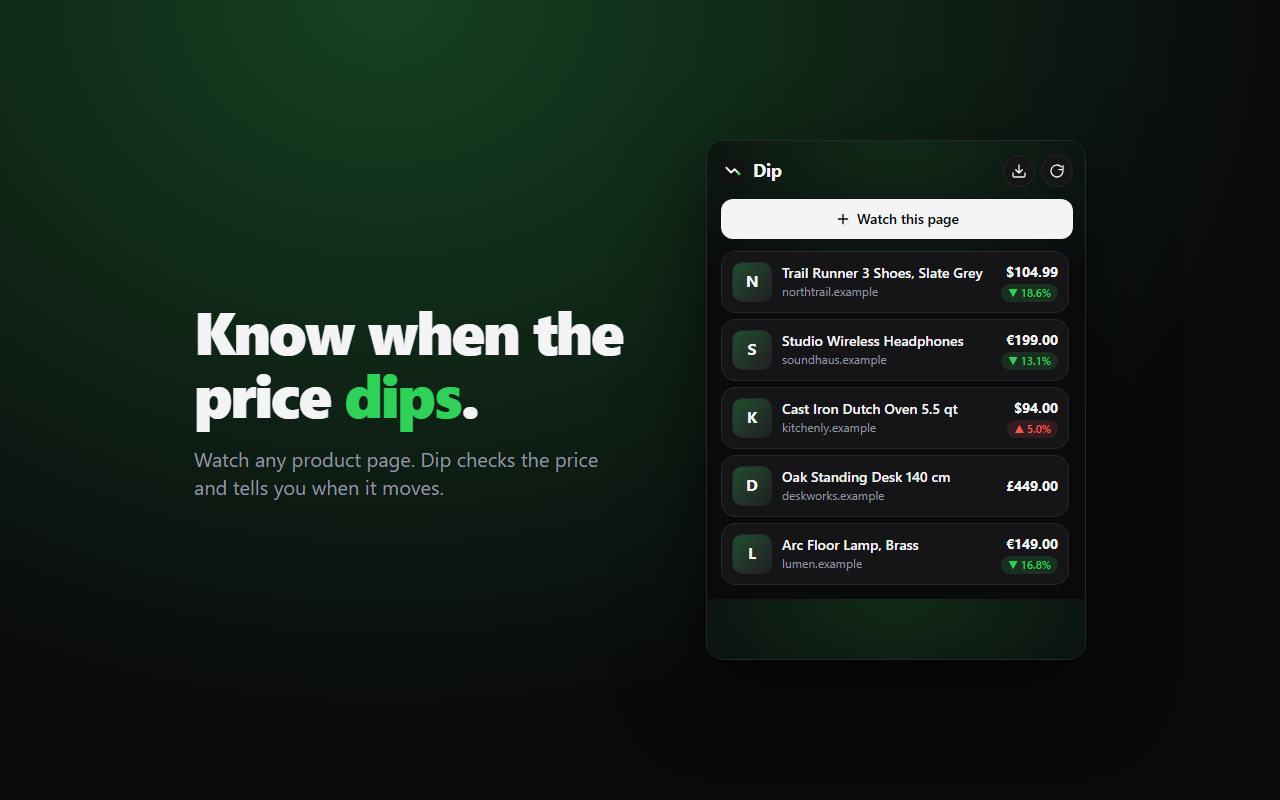
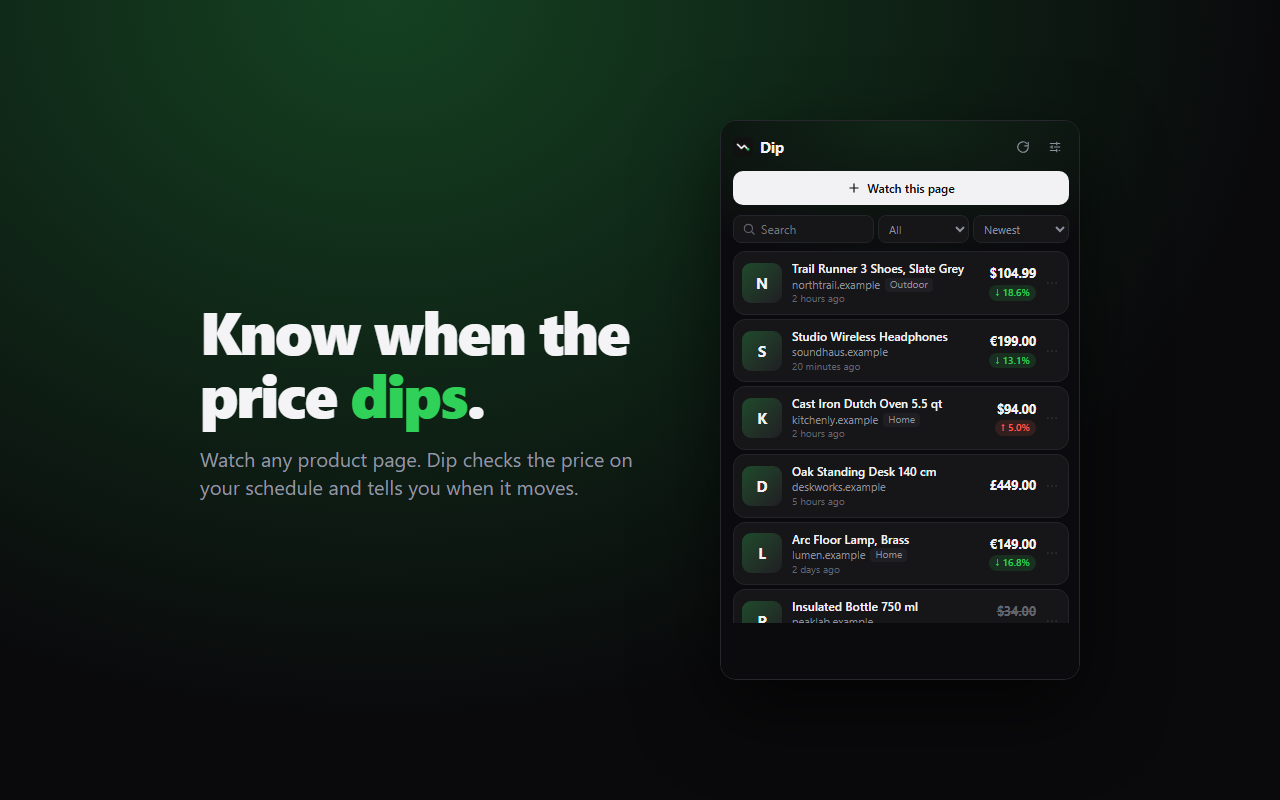
0.3.0, docs and store screenshot

diff --git a/README.md b/README.md
@@ -34,7 +34,11 @@ work. See [Web app or extension?](#web-app-or-extension)
 - The extension offers to watch a product when you open its page on a
   supported shop
 - The same product is never added twice, even from a differently copied link
-- Product pictures, lowest/highest price and a summary of what got cheaper
+- Product pictures (or the shop's logo), lowest/highest price and a summary
+  of what got cheaper
+- Checks on your schedule: every N minutes, hours, days, weeks or months
+- Spots products that are unavailable or no longer listed
+- Search, filter, sort, and group products into your own lists
 - No per-shop scrapers to maintain: prices are read from the structured data
   shops publish, or from the page itself when there is none
 - Export and import your list as a plain JSON file
@@ -49,7 +53,7 @@ work. See [Web app or extension?](#web-app-or-extension)
  │ list + history in │                │ list + history in     │
  │ localStorage      │                │ chrome.storage.local  │
  └─────────┬─────────┘                └───────────┬───────────┘
-           │ /api/price?url=…                     │ fetch, hourly
+           │ /api/price?url=…                     │ fetch, on your schedule
  ┌─────────▼─────────┐                            │
  │ stateless lookup  │                            │
  │ (stores nothing)  │                            │
@@ -62,7 +66,25 @@ Both read the price from the page, trying in this order:
 1. [schema.org](https://schema.org/Product) JSON-LD (`Product` → `offers`)
 2. Open Graph / product meta tags (`product:price:amount`)
 3. Microdata (`itemprop="price"`)
-4. The first element labelled "price" whose text reads like money
+4. The page's main price element, read off the page
+
+### Prices you can trust
+
+A wrong price that triggers a "price drop" alert is worse than no alert, so:
+
+- **Payment plans are never the price.** Monthly instalments ("$33.29/mo.",
+  "12 × €83,25", "3 payments of…"), Klarna/Affirm amounts, shipping, deposits,
+  crossed-out and "was" prices are all skipped, both in structured data and on
+  the page. When a page shows only an instalment, Dip finds no price rather
+  than the wrong one.
+- **On Amazon** only the main price box counts; the shipping tables, other
+  sellers and payment-plan widgets elsewhere on the page are ignored.
+- **Surprising drops are confirmed first.** A drop of more than 40%, or a price
+  read off the page that disagrees with the shop's structured data, is held
+  back and only recorded (and alerted) when the next check sees it again.
+
+The cases that tripped earlier versions are in
+[extension/core/extract.test.js](extension/core/extract.test.js).
 
 **Where the server comes in.** A web page isn't allowed to fetch another
 site's HTML, so on its own the web app asks one small route, `/api/price`, to
@@ -91,7 +113,7 @@ popup once and press **Let Dip check any shop**.
 | Shops that answer servers        | ✓             | ✓                  |
 | Shops with robot checks          |               | ✓                  |
 | Prices filled in by scripts      |               | ✓                  |
-| Checks while the app is closed   |               | ✓ (hourly)         |
+| Checks while the app is closed   |               | ✓                  |
 
 ## Getting started
 
@@ -133,11 +155,13 @@ one-line pull request.
 Any other shop works too: press **Watch this page** and Dip asks for access to
 that one site.
 
-**Trying notifications.** Press **Add a test product** (in the popup or the
-web app), then refresh. Its price changes on every check.
+**Trying notifications.** In a development build (the unpacked extension, or
+`npm run dev`), Settings has **Add test product**: a made-up product whose
+price changes every minute and sends an alert each time, until you remove it.
+Release builds don't contain it.
 
-To let the web app use the extension for its lookups, press **Let Dip check
-any shop** in the popup. That's the only time it asks for access to all sites,
+To let the web app use the extension for its lookups, turn on **Any shop** in
+the popup's settings. That's the only time it asks for access to all sites,
 and it's optional.
 
 The web app is recognised on `localhost` out of the box. If you host it
@@ -188,8 +212,9 @@ npm run lint
 - Without the extension, the web app can't read shops that turn servers away.
   It says so when that happens.
 - Without the extension, the web app only checks while it's open.
-- When a page has no structured data, the price is a best guess from the
-  page's markup and can be wrong (a "from" price, a different variant).
+- When a page has no structured data, the price is read off the page and can
+  still be wrong (a "from" price, a different variant). Big moves are confirmed
+  before they are recorded, small ones are not.
 - For shops that fill prices in with scripts, the extension briefly opens the
   page in a background tab on each check.
 - A shop that publishes a wrong or stale price in its structured data will
@@ -203,7 +228,8 @@ Nothing is collected. See [PRIVACY.md](PRIVACY.md).
 ## Releasing the extension
 
 `npm run package:ext` writes `dip-extension.zip` from the last commit, without
-the test files. The store copy and images are in [store/](store/).
+the test files, and with [release/dev.js](release/dev.js) in place of the test
+product. The store copy and images are in [store/](store/).
 
 ## Contributing
 

diff --git a/store/listing.md b/store/listing.md
@@ -24,10 +24,14 @@ English
 
 Dip keeps a watch list of products you care about and tells you when a price moves.
 
-Open a product page and Dip offers to watch it, or click Dip and press "Watch this page". That's it. Dip remembers the price, checks it again about once an hour, and sends a notification when it goes down or up.
+Open a product page and Dip offers to watch it, or click Dip and press "Watch this page". That's it. Dip remembers the price, checks it again on the schedule you choose, and sends a notification when it goes down or up.
 
 • Works on most shops, no setup. Dip reads the price the shop publishes on its own page.
 • Price history for every item, with the change since the last price.
+• Checks on your schedule, from every few minutes to monthly.
+• Tells you when a product is unavailable or no longer listed.
+• Search, sort and organise products into lists.
+• Ignores monthly payment plans, so a "$33/mo." offer is never mistaken for a price drop.
 • Notifications for every change. Click one to open the product.
 • Private by design. No account, no analytics, no tracking. Your list and price history are stored in your browser and never leave it.
 • Knows 360+ popular shop sites out of the box; any other shop can be added with one click.
@@ -56,7 +60,7 @@ Track the prices of product pages the user chooses and notify the user when a pr
 **Permission justifications**
 
 - **storage**: Stores the user's watch list and price history locally on the device.
-- **alarms**: Schedules an hourly re-check of the watched prices.
+- **alarms**: Schedules the re-check of watched prices at the interval the user chooses.
 - **notifications**: Notifies the user when a watched price changes.
 - **activeTab**: Reads the current page when the user clicks "Watch this page", to find the product's price and title.
 - **scripting**: Reads the rendered HTML of the page the user is adding, and of a watched product page when its price is filled in by scripts, in order to extract the price.

diff --git a/CHANGELOG.md b/CHANGELOG.md
@@ -1,5 +1,20 @@
 # Changelog
 
+## 0.3.0
+
+- Fix: a monthly instalment ("$33.29/mo.") could be read as the price and
+  reported as a price drop. Payment plans are now skipped everywhere, Amazon
+  pages only read the main price box, and drops over 40% are confirmed by a
+  second check before they are recorded or alerted
+- Checks run on your schedule: every N minutes, hours, days, weeks or months
+- Unavailable and unlisted products are detected and marked
+- Search, filter and sort, and your own lists
+- Shop logos when a product has no picture; better product pictures
+- Popup: smaller type, relative check times ("2 hours ago"), product opens on
+  click, details in a sheet, settings, yellow warnings
+- Test product (development builds only) alerts every minute until removed
+- Notifications no longer replace each other silently
+
 ## 0.2.0
 
 - The web app looks prices up through the extension when it's installed, so

diff --git a/PRIVACY.md b/PRIVACY.md
@@ -38,7 +38,7 @@ Dip makes no other requests. Nothing is sent to the developer.
 ## Permissions the extension uses
 
 - **storage**: keep your watch list on your device.
-- **alarms**: re-check prices about once an hour.
+- **alarms**: re-check prices on the schedule you choose.
 - **notifications**: tell you when a price changes.
 - **activeTab** and **scripting**: read the price from the page you are on
   when you press "Watch this page", and from pages Dip opens to re-check a
